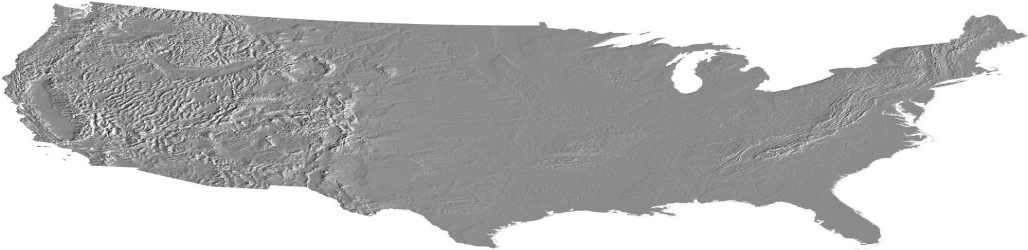
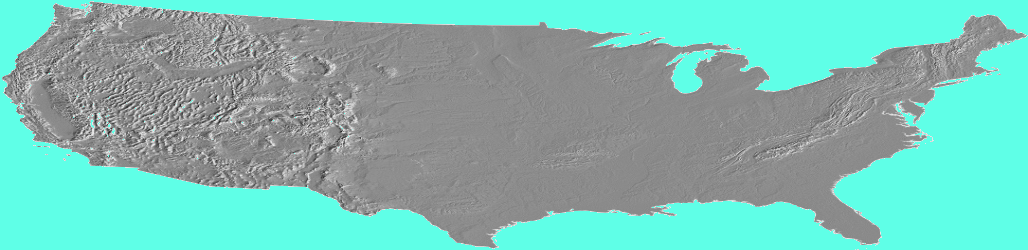
-- improved background image   -- better placement of SU   -- harpoon transparency better now
git-svn-id: svn+ssh://pod.stanford.edu/afs/ir/users/d/g/dgu/svnrepos/mckeown/buf_sizing_demo_gui@51 430c2b67-5b2a-4139-885b-1681b357b292

diff --git a/src/dgu/bufsizing/Demo.java b/src/dgu/bufsizing/Demo.java
@@ -1,5 +1,6 @@
 package dgu.bufsizing;
 
+import java.awt.Composite;
 import java.awt.Graphics2D;
 import java.util.LinkedList;
 
@@ -51,7 +52,14 @@ public class Demo {
     }
 
     void redraw(Graphics2D gfx) {
+        // clear the drawing space
+        gfx.clearRect( 0, 0, DemoGUI.CANVAS_WIDTH, DemoGUI.CANVAS_HEIGHT );
+        
+        // draw the background image
+        Composite compositeOriginal = gfx.getComposite();
+        gfx.setComposite( Drawable.COMPOSITE_HALF );
         gfx.drawImage( Drawable.BACKGROUND_IMG, 0, 0, null );
+        gfx.setComposite( compositeOriginal );
         
         // draw the legend
         String legendLbl = "Increasing Utilization -->";

diff --git a/src/dgu/bufsizing/demos/DemoBasic.java b/src/dgu/bufsizing/demos/DemoBasic.java
@@ -37,7 +37,7 @@ public class DemoBasic {
         demo.addGenericNode( dc );
         
         // add our traffic generators
-        TrafficGenerator su = new Harpoon( "Stanford", "SU", Importance.NIL, 35, 110 );
+        TrafficGenerator su = new Harpoon( "Stanford", "SU", Importance.IMPORTANT, 30, 100 );
         demo.addTrafficGenerator( su );
         
         // add the links between nodes
